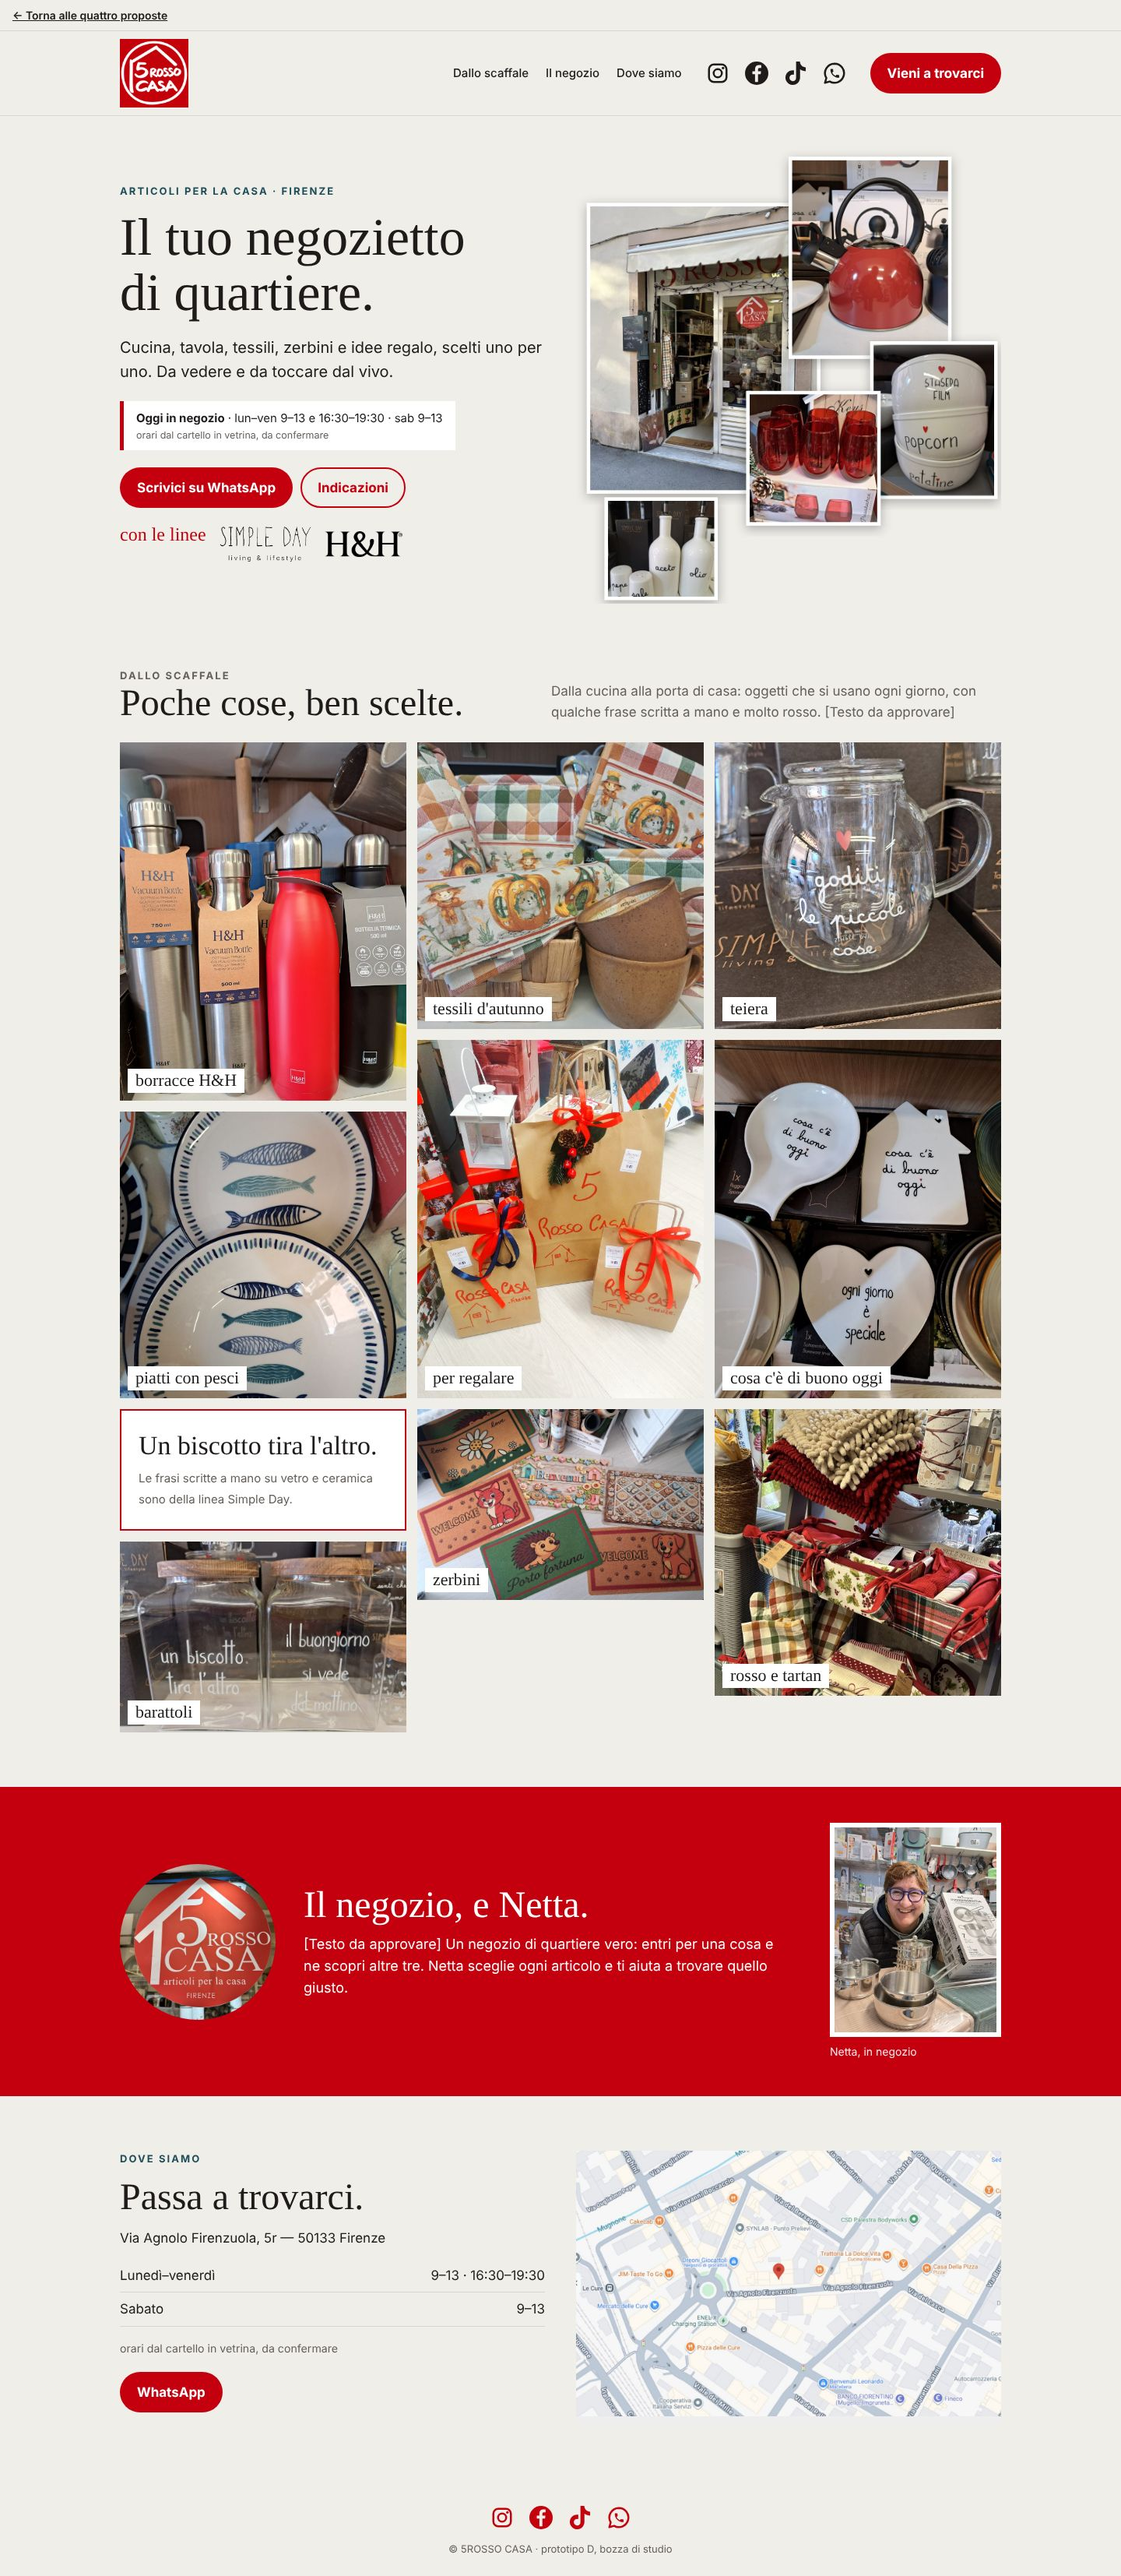
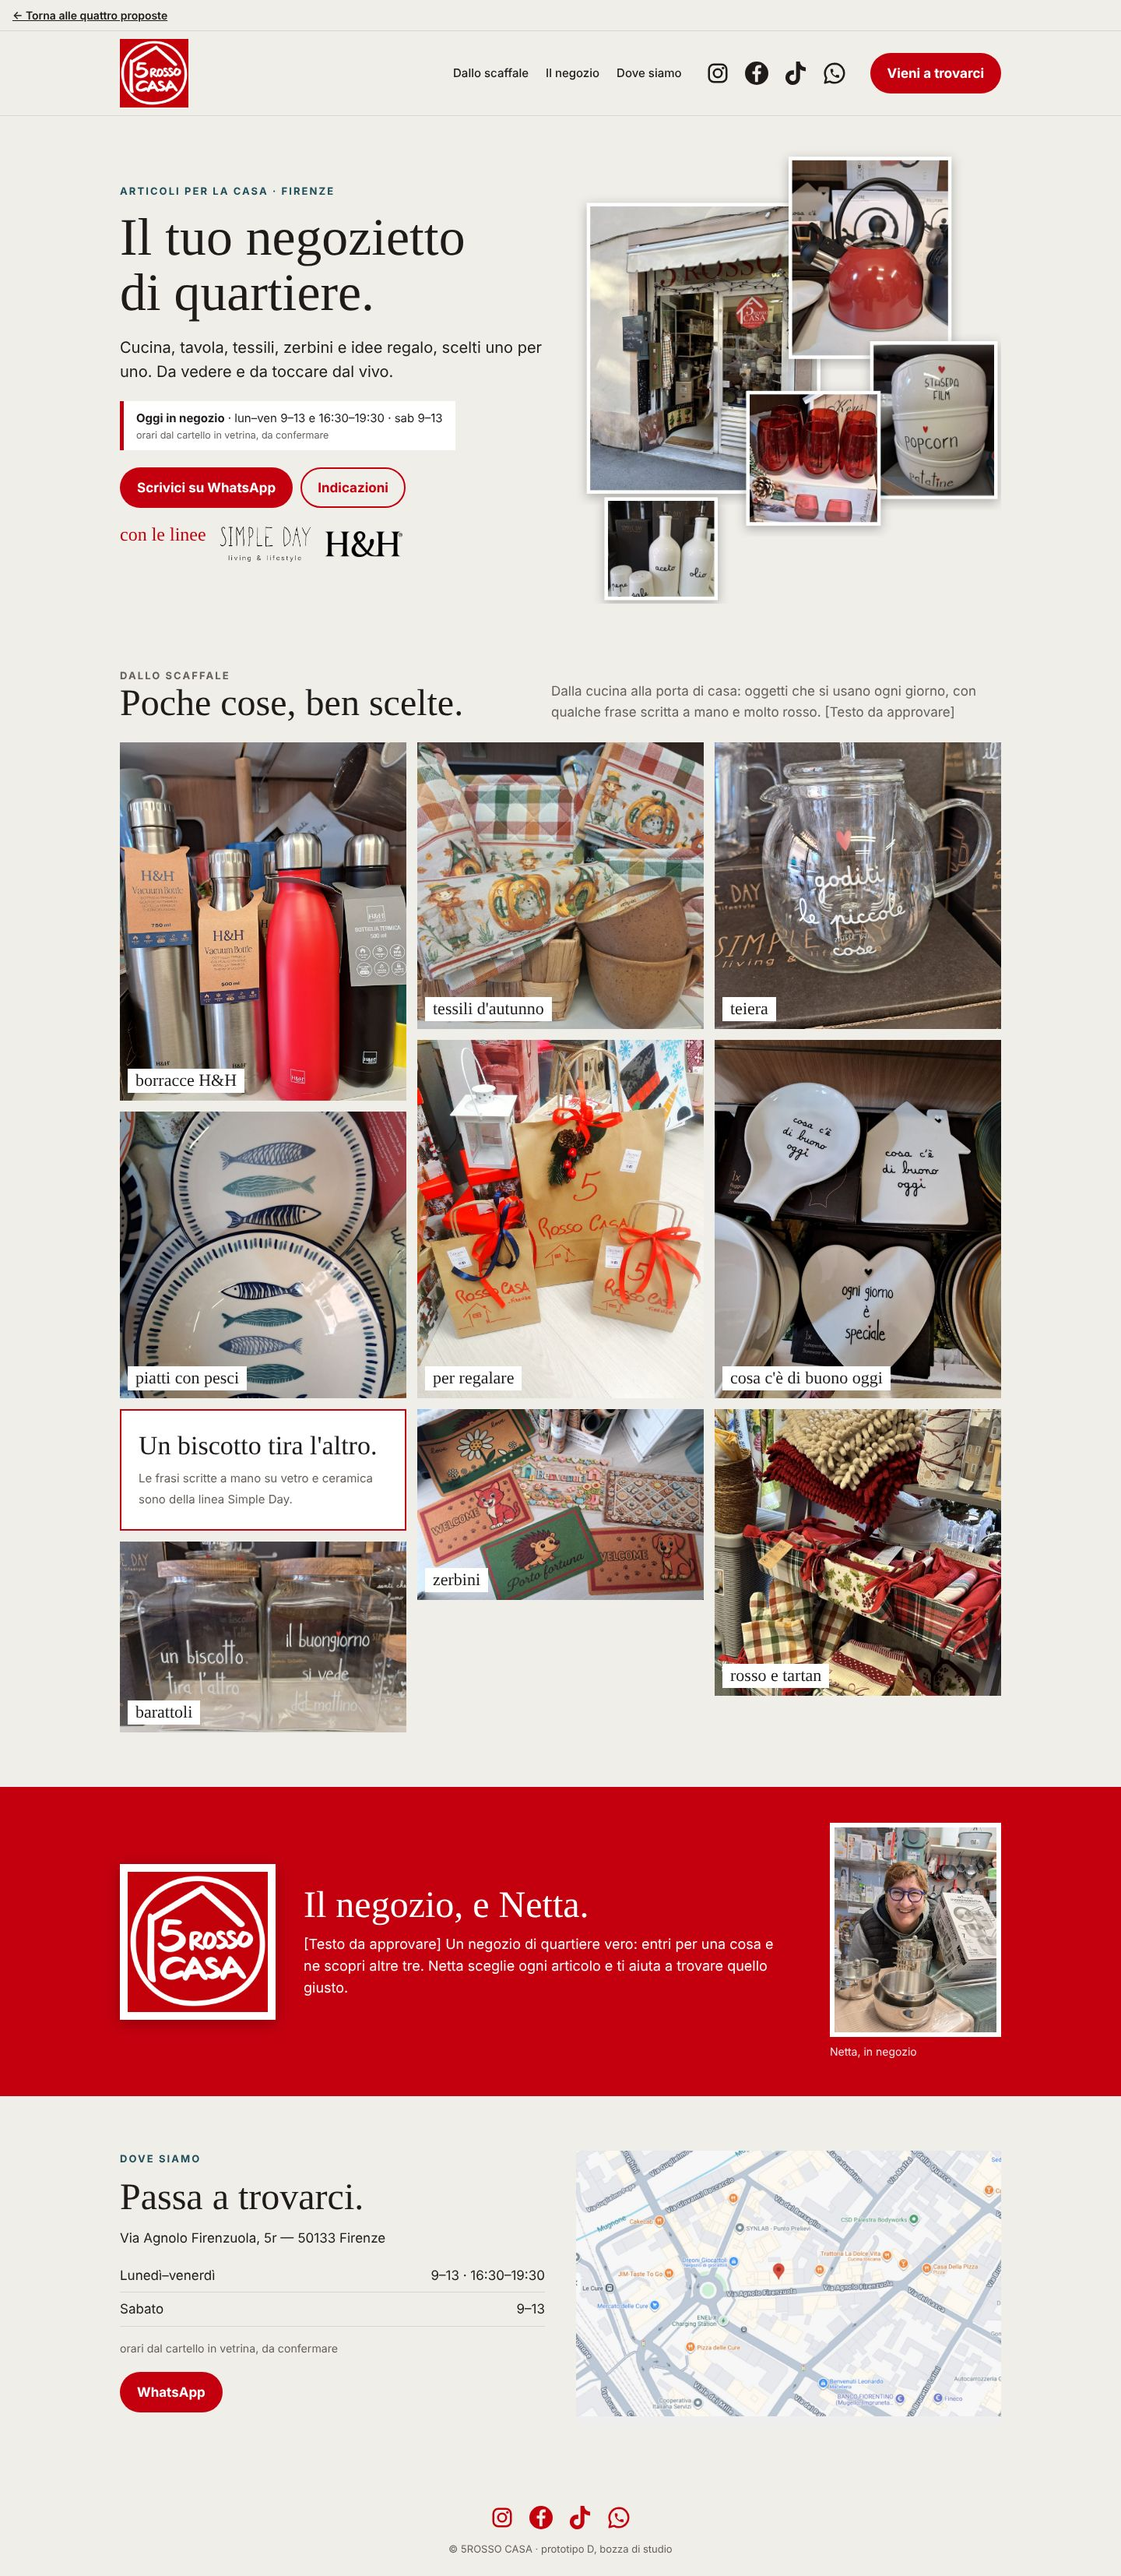
D: marchio ufficiale hand 2 nella fascia rossa al posto del ritaglio fotografico
Claude-Session: https://claude.ai/code/session_01Wie8PVtFxXNJm6k2L4bQJj

Changed region(s): [[0.0938, 0.7164, 0.25, 0.8098]]

diff --git a/D/index.html b/D/index.html
@@ -53,7 +53,7 @@ footer{padding:24px;text-align:center;font-size:13px;color:var(--muto)}
 .top .wrap,.top img{transition:height .25s ease,width .25s ease}
 .sc .top .wrap{height:68px}.sc .top img{width:56px}
 @media(max-width:800px){.sc .top .wrap{height:60px}.sc .top img{width:46px}}
-</style></head><body id="inizio">
+</style><style id="fix4">.shop .a img.lg{display:block;width:200px;max-width:100%;height:auto;aspect-ratio:auto;object-fit:contain;border-radius:0;background:#fff;padding:10px;box-shadow:0 4px 18px #0004}@media(max-width:800px){.shop .a img.lg{width:150px}}</style></head><body id="inizio">
 <svg width="0" height="0" style="position:absolute" aria-hidden="true" focusable="false"><symbol id="i-ig" viewBox="0 0 24 24"><rect x="3" y="3" width="18" height="18" rx="5" fill="none" stroke="currentColor" stroke-width="2"/><circle cx="12" cy="12" r="4.2" fill="none" stroke="currentColor" stroke-width="2"/><circle cx="17.4" cy="6.6" r="1.3" fill="currentColor"/></symbol><symbol id="i-fb" viewBox="0 0 24 24"><path fill="currentColor" fill-rule="evenodd" d="M12 0a12 12 0 1 0 0 24 12 12 0 0 0 0-24zM13.4 21v-8h2.7l.4-3.1h-3.1V8c0-.9.3-1.5 1.6-1.5h1.7V3.7c-.3 0-1.3-.1-2.4-.1-2.4 0-4 1.4-4 4.1v2.2H7.6V13h2.7v8h3.1z"/></symbol><symbol id="i-tt" viewBox="0 0 24 24"><path fill="currentColor" d="M12.525.02c1.31-.02 2.61-.01 3.91-.02.08 1.53.63 3.09 1.75 4.17 1.12 1.11 2.7 1.62 4.24 1.79v4.03c-1.44-.05-2.89-.35-4.2-.97-.57-.26-1.1-.59-1.62-.93-.01 2.92.01 5.84-.02 8.75-.08 1.4-.54 2.79-1.35 3.94-1.31 1.92-3.58 3.17-5.91 3.21-1.43.08-2.86-.31-4.08-1.03-2.02-1.19-3.44-3.37-3.65-5.71-.02-.5-.03-1-.01-1.49.18-1.9 1.12-3.72 2.58-4.96 1.66-1.44 3.98-2.13 6.15-1.72.02 1.48-.04 2.96-.04 4.44-.99-.32-2.15-.23-3.02.37-.63.41-1.11 1.04-1.36 1.75-.21.51-.15 1.07-.14 1.61.24 1.64 1.82 3.02 3.5 2.87 1.12-.01 2.19-.66 2.77-1.61.19-.33.4-.67.41-1.06.1-1.79.06-3.57.07-5.36.01-4.03-.01-8.05.02-12.07z"/></symbol><symbol id="i-wa" viewBox="0 0 24 24"><path d="M12 2.2a9.8 9.8 0 0 0-8.4 14.8L2.2 21.8l4.9-1.3A9.8 9.8 0 1 0 12 2.2z" fill="none" stroke="currentColor" stroke-width="2" stroke-linejoin="round"/><path fill="currentColor" transform="translate(6.3 6.1) scale(.5)" d="M6.62 10.79c1.44 2.83 3.76 5.14 6.59 6.59l2.2-2.2c.27-.27.67-.36 1.02-.24 1.12.37 2.33.57 3.57.57.55 0 1 .45 1 1V20c0 .55-.45 1-1 1-9.39 0-17-7.61-17-17 0-.55.45-1 1-1h3.5c.55 0 1 .45 1 1 0 1.25.2 2.45.57 3.57.11.35.03.74-.25 1.02l-2.2 2.2z"/></symbol></svg>
 <a class="back" href="../index.html">← Torna alle quattro proposte</a>
 <header class="top"><div class="wrap"><a href="#inizio"><img src="../img/logo_5rossocasa_hand2_web.png" alt="Logo 5 Rosso Casa"></a><nav><a href="#scaffale">Dallo scaffale</a><a href="#negozio">Il negozio</a><a href="#dove">Dove siamo</a></nav><div class="soc"><span class="ic off" role="img" aria-label="Instagram"><svg aria-hidden="true" focusable="false"><use href="#i-ig"/></svg></span><span class="ic off" role="img" aria-label="Facebook"><svg aria-hidden="true" focusable="false"><use href="#i-fb"/></svg></span><span class="ic off" role="img" aria-label="TikTok"><svg aria-hidden="true" focusable="false"><use href="#i-tt"/></svg></span><span class="ic off" role="img" aria-label="WhatsApp"><svg aria-hidden="true" focusable="false"><use href="#i-wa"/></svg></span></div><a class="btn" href="#dove">Vieni a trovarci</a></div></header>
@@ -80,7 +80,7 @@ footer{padding:24px;text-align:center;font-size:13px;color:var(--muto)}
 <figure><img src="../img/mosaico_tessili_rossi.jpg" alt="Tessili rossi e a quadri"><figcaption>rosso e tartan</figcaption></figure>
 </div></div></section>
 
-<section class="shop" id="negozio"><div class="wrap"><div class="a"><img src="../img/adesivo_logo_vetrina.jpg" alt="Adesivo con il logo 5 Rosso Casa sulla vetrina"></div>
+<section class="shop" id="negozio"><div class="wrap"><div class="a"><img class="lg" src="../img/logo_5rossocasa_hand2_web.png" alt="Logo 5 Rosso Casa"></div>
 <div><h2>Il negozio, e Netta.</h2><p>[Testo da approvare] Un negozio di quartiere vero: entri per una cosa e ne scopri altre tre. Netta sceglie ogni articolo e ti aiuta a trovare quello giusto.</p></div>
 <div class="n"><img src="../img/netta_con_pentole.jpg" alt="Netta, titolare del negozio, sorride tra le pentole"><small>Netta, in negozio</small></div></div></section>
 
